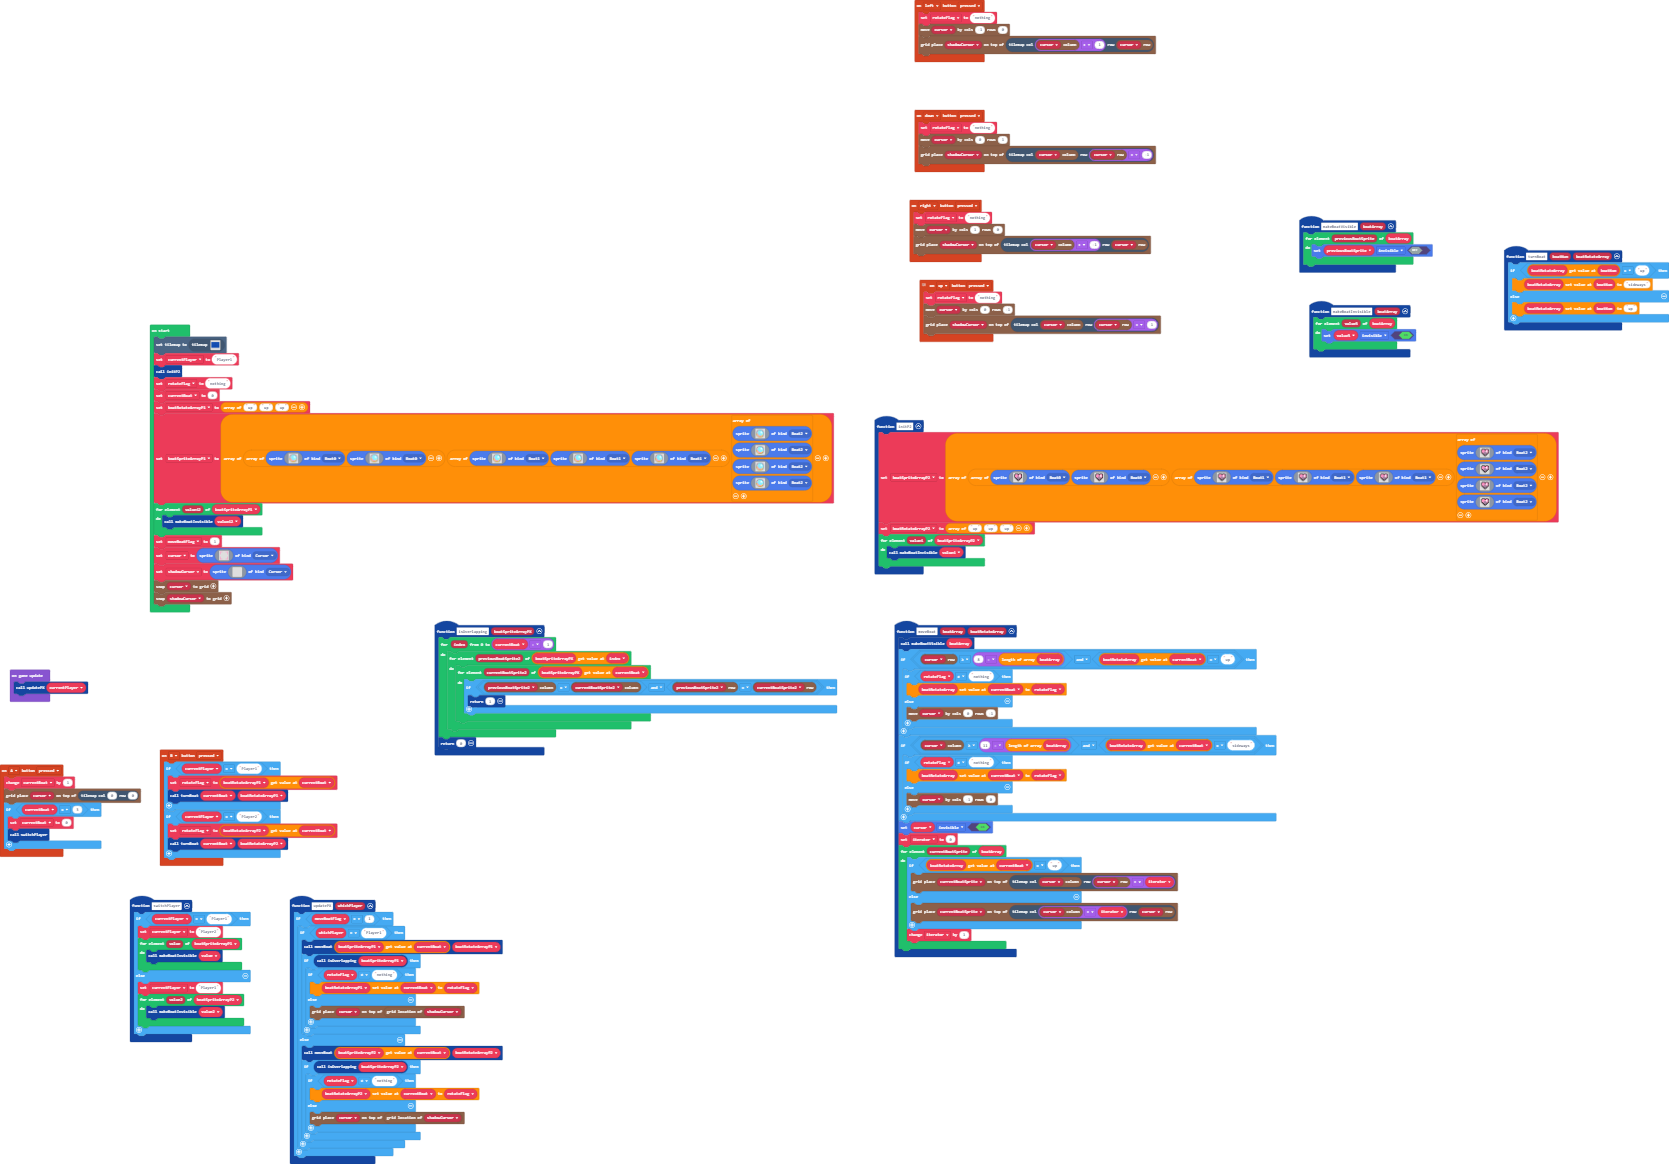
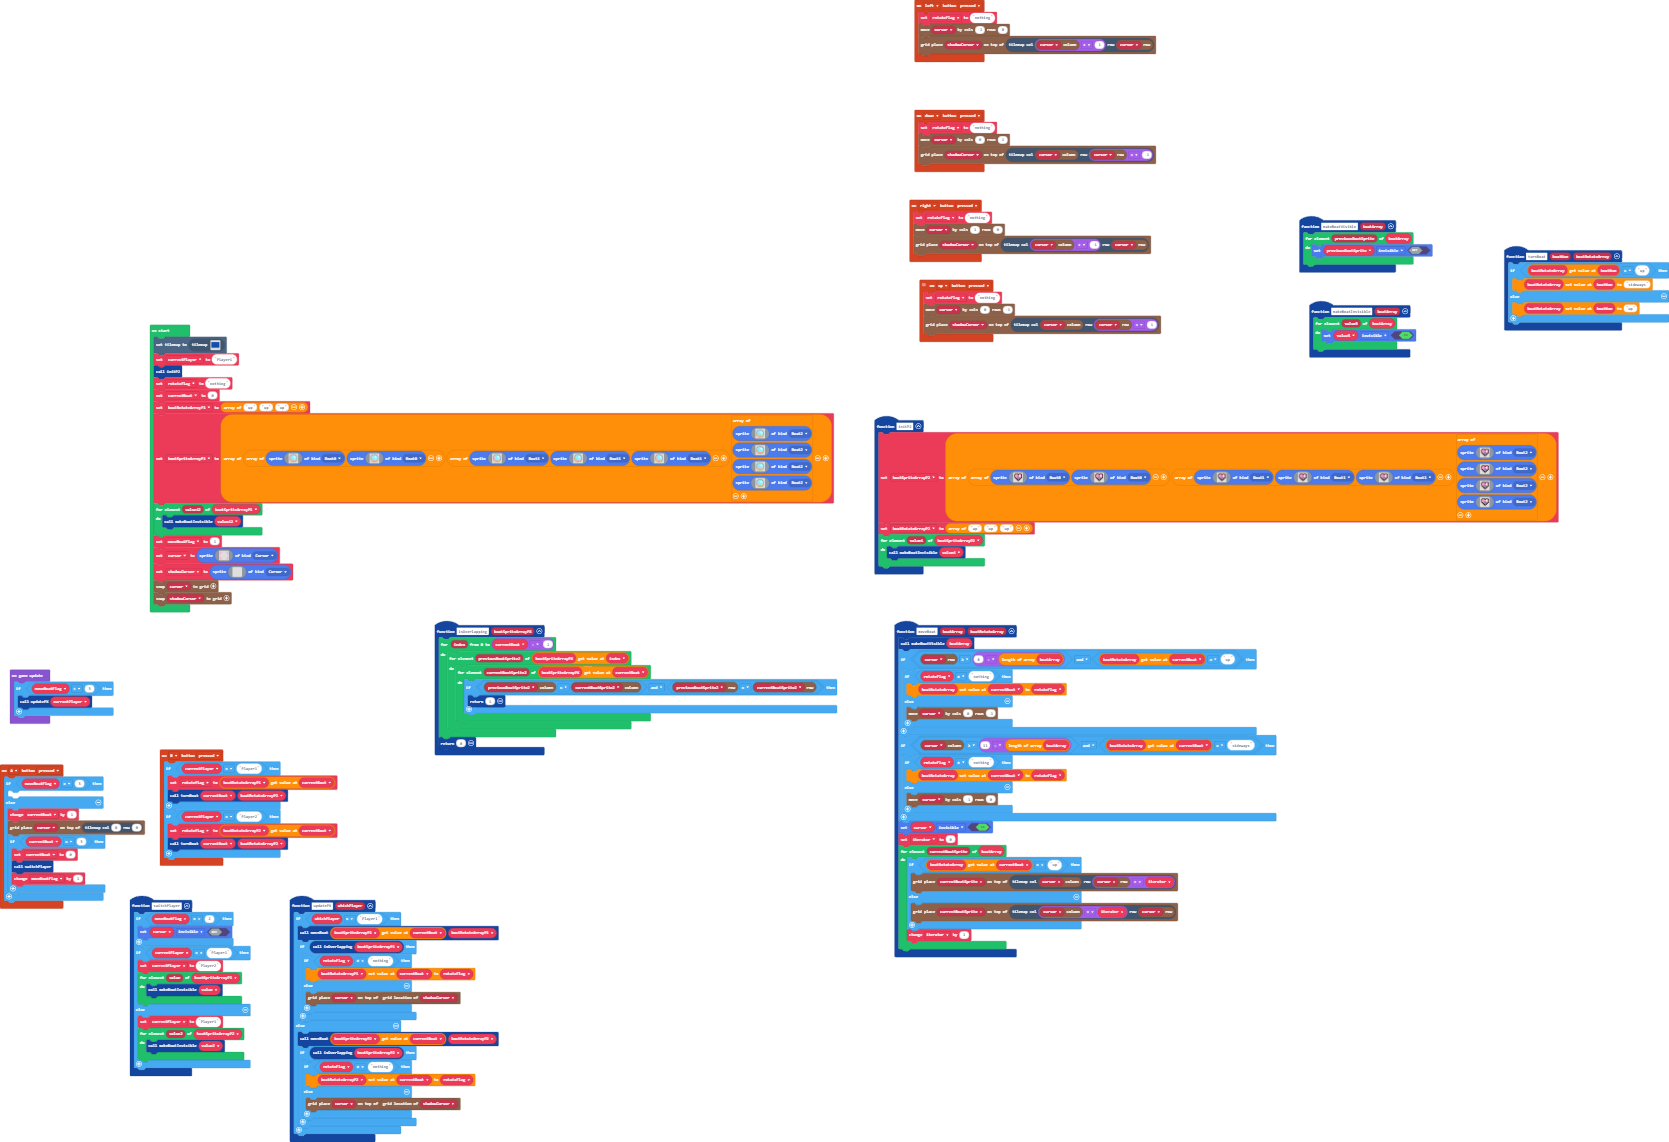
cursor turns on

diff --git a/main.ts b/main.ts
@@ -11,24 +11,22 @@ controller.up.onEvent(ControllerButtonEvent.Pressed, function () {
     grid.place(shadowCursor, tiles.getTileLocation(grid.spriteCol(cursor), grid.spriteRow(cursor) + 1))
 })
 function updatePX (whichPlayer: string) {
-    if (moveBoatFlag == 1) {
-        if (whichPlayer == "Player1") {
-            moveBoat(boatSpriteArrayP1[currentBoat], boatRotateArrayP1)
-            if (isOverlapping(boatSpriteArrayP1)) {
-                if (rotateFlag != "nothing") {
-                    boatRotateArrayP1[currentBoat] = rotateFlag
-                } else {
-                    grid.place(cursor, grid.getLocation(shadowCursor))
-                }
+    if (whichPlayer == "Player1") {
+        moveBoat(boatSpriteArrayP1[currentBoat], boatRotateArrayP1)
+        if (isOverlapping(boatSpriteArrayP1)) {
+            if (rotateFlag != "nothing") {
+                boatRotateArrayP1[currentBoat] = rotateFlag
+            } else {
+                grid.place(cursor, grid.getLocation(shadowCursor))
             }
-        } else {
-            moveBoat(boatSpriteArrayP2[currentBoat], boatRotateArrayP2)
-            if (isOverlapping(boatSpriteArrayP2)) {
-                if (rotateFlag != "nothing") {
-                    boatRotateArrayP2[currentBoat] = rotateFlag
-                } else {
-                    grid.place(cursor, grid.getLocation(shadowCursor))
-                }
+        }
+    } else {
+        moveBoat(boatSpriteArrayP2[currentBoat], boatRotateArrayP2)
+        if (isOverlapping(boatSpriteArrayP2)) {
+            if (rotateFlag != "nothing") {
+                boatRotateArrayP2[currentBoat] = rotateFlag
+            } else {
+                grid.place(cursor, grid.getLocation(shadowCursor))
             }
         }
     }
@@ -49,11 +47,16 @@ function makeBoatVisible (boatArray: Sprite[]) {
     }
 }
 controller.A.onEvent(ControllerButtonEvent.Pressed, function () {
-    currentBoat += 1
-    grid.place(cursor, tiles.getTileLocation(0, 0))
-    if (currentBoat == 3) {
-        currentBoat = 0
-        switchPlayer()
+    if (moveBoatFlag == 3) {
+    	
+    } else {
+        currentBoat += 1
+        grid.place(cursor, tiles.getTileLocation(0, 0))
+        if (currentBoat == 3) {
+            currentBoat = 0
+            switchPlayer()
+            moveBoatFlag += 1
+        }
     }
 })
 controller.left.onEvent(ControllerButtonEvent.Pressed, function () {
@@ -62,6 +65,9 @@ controller.left.onEvent(ControllerButtonEvent.Pressed, function () {
     grid.place(shadowCursor, tiles.getTileLocation(grid.spriteCol(cursor) + 1, grid.spriteRow(cursor)))
 })
 function switchPlayer () {
+    if (moveBoatFlag == 2) {
+        cursor.setFlag(SpriteFlag.Invisible, false)
+    }
     if (currentPlayer == "Player1") {
         currentPlayer = "Player2"
         for (let value of boatSpriteArrayP1) {
@@ -527,5 +533,7 @@ shadowCursor = sprites.create(img`
 grid.snap(cursor)
 grid.snap(shadowCursor)
 game.onUpdate(function () {
-    updatePX(currentPlayer)
+    if (moveBoatFlag < 3) {
+        updatePX(currentPlayer)
+    }
 })
